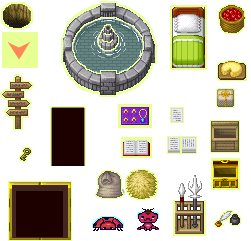
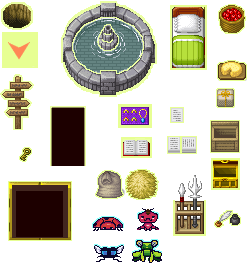
Added all NPC

diff --git a/World/Sprite_locations.py b/World/Sprite_locations.py
@@ -148,7 +148,7 @@ interactable = {
         "Dear Hopper I'll save the company.. I'm smart bussiness man"
     ),
     'Ant': (
-        134, 208, 
+        133, 207, 
         (32, 32),
         ['Ant: Nice day today...', 'Ant: Have you heard the news?', 'Ant: Poor Lady bug', 'Ant: The bank was robbed! can you believe that']
     ),
@@ -156,6 +156,16 @@ interactable = {
         91, 208, 
         (32, 32),
         ['LadyBug: Please help detective', "LadyBug: I didn't do this!", "LadyBug: They'll take me soon ...", 'LadyBug: Please help', 'LadyBug: Who will take care of my kids??']
+    ),
+    'Fly': (
+        93, 235, 
+        (30, 30),
+        ["Fly: ... get away I'm bussy", "Fly: you need something?", "Fly: Private property get out!", "Can't you read? this is private property"]
+    ),
+    'Hopper': (
+        131, 237, 
+        (32, 32),
+        ['Hopper: Hello detective', 'Hopper: Yestarday was awesome!', 'Hopper: I am an excellent swimmer']
     ),
 }
 Water_coordinates = {
@@ -185,8 +195,10 @@ Bridge_coordinates = {
 
 #loc_x. loc_y, x, y
 character = {
-    'Ant': (32, 0, 1500, 228), 
-    'LadyBug': (0, 0, 40, 232)
+    'Ant': (43, 0, 1500, 228), 
+    'LadyBug': (0, 0, 40, 232),
+    'Hopper': (132, 0, 92, 1100), 
+    'Fly': (86, 0, 1200, 1200),
 }
 
 Plant_coordinates = {
